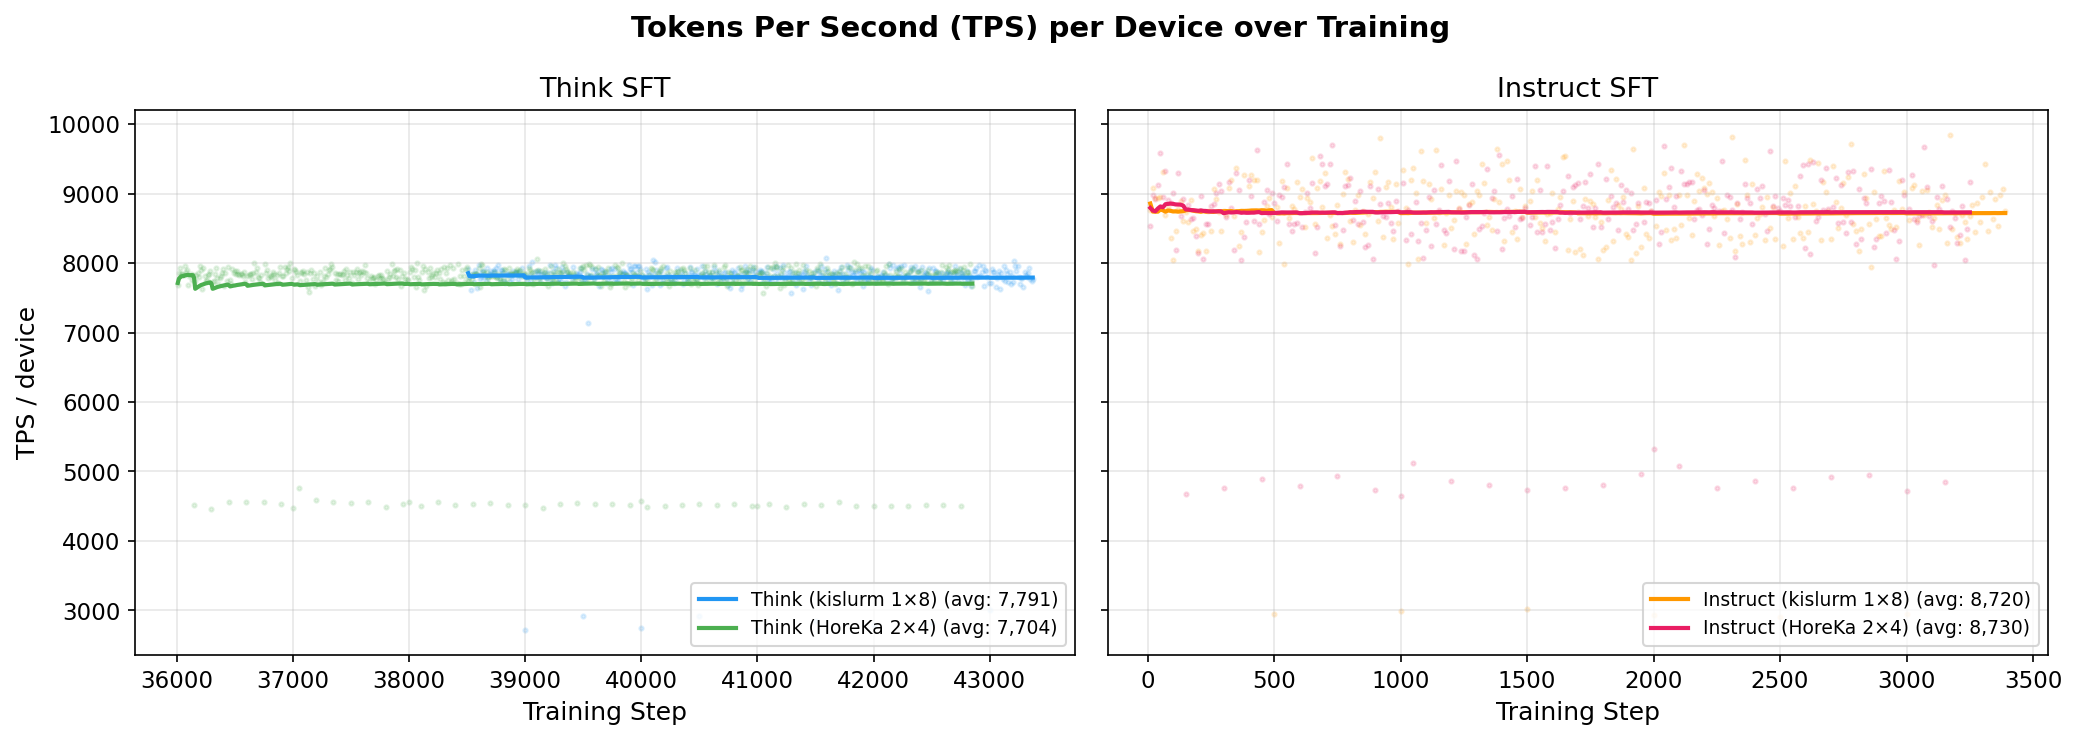
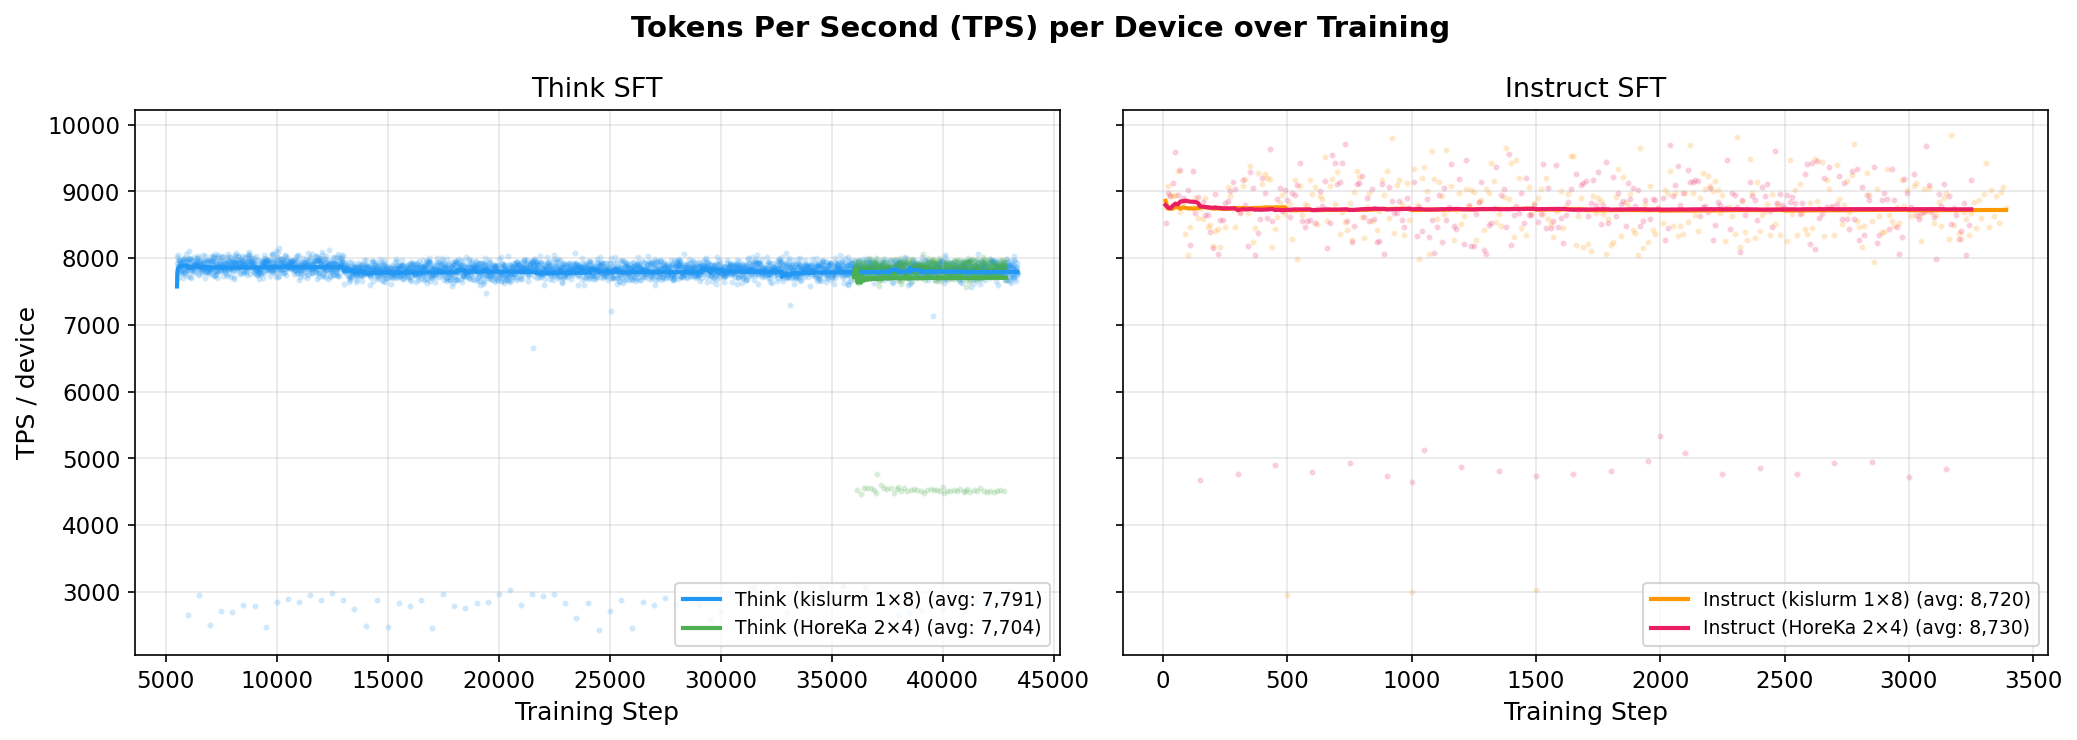
Fix Think TPS/MFU plots to show full training (step 5.5k-43k)
Merge all 14 wandb sessions for kislurm Think (was only showing last
session from step 38.5k). Remove wallclock plot (table entry suffices).
Simplify MFU correction notes.

diff --git a/oellm/experiments/baseline_repro/scripts/plot_throughput.py b/oellm/experiments/baseline_repro/scripts/plot_throughput.py
@@ -20,6 +20,8 @@ ROOT = Path(__file__).resolve().parents[1]  # baseline_repro/
 CKPT = Path("/work/dlclarge2/ferreira-oellm/open-instruct/checkpoints/ferreira/olmo3-7b-sft")
 FIGURES = ROOT / "figures"
 FIGURES.mkdir(exist_ok=True)
+EVAL_FIGURES = ROOT.parent.parent / "evaluations" / "figures"
+EVAL_FIGURES.mkdir(exist_ok=True)
 
 # MFU correction: OLMo-core used A100 peak (156 TFLOPS) instead of H200 (989.5 TFLOPS)
 A100_PEAK = 156e12
@@ -27,13 +29,10 @@ H200_PEAK = 989.5e12
 MFU_CORRECTION = A100_PEAK / H200_PEAK
 
 
-def parse_wandb_log(log_path: Path) -> dict:
-    """Parse output.log for per-step metrics (logged every 10 steps)."""
-    text = log_path.read_text()
+def _parse_single_log(text: str) -> dict:
+    """Parse a single output.log text for per-step metrics (logged every 10 steps)."""
     steps, tps, tps_avg, mfu, mfu_avg = [], [], [], [], []
-    timestamps = []
 
-    # Match blocks: step header followed by metric lines
     block_pat = re.compile(
         r'(\d{4}-\d{2}-\d{2} \d{2}:\d{2}:\d{2})\.\d+\t.*\[step=(\d+)/\d+,epoch=\d+,eta=.*?\]'
     )
@@ -42,24 +41,19 @@ def parse_wandb_log(log_path: Path) -> dict:
     mfu_pat = re.compile(r'throughput/device/MFU=([\d.]+)')
     mfu_avg_pat = re.compile(r'throughput/device/MFU \(actual avg\)=([\d.]+)')
 
-    lines = text.split('\n')
     current_step = None
-    current_ts = None
     current = {}
 
-    for line in lines:
+    for line in text.split('\n'):
         bm = block_pat.search(line)
         if bm:
-            # Save previous block
             if current_step is not None and 'tps' in current:
                 steps.append(current_step)
-                timestamps.append(current_ts)
                 tps.append(current['tps'])
                 tps_avg.append(current.get('tps_avg', current['tps']))
                 mfu.append(current['mfu'])
                 mfu_avg.append(current.get('mfu_avg', current['mfu']))
             current_step = int(bm.group(2))
-            current_ts = bm.group(1)
             current = {}
             continue
 
@@ -77,10 +71,8 @@ def parse_wandb_log(log_path: Path) -> dict:
             if m:
                 current['mfu_avg'] = float(m.group(1))
 
-    # Save last block
     if current_step is not None and 'tps' in current:
         steps.append(current_step)
-        timestamps.append(current_ts)
         tps.append(current['tps'])
         tps_avg.append(current.get('tps_avg', current['tps']))
         mfu.append(current['mfu'])
@@ -90,8 +82,72 @@ def parse_wandb_log(log_path: Path) -> dict:
         'steps': np.array(steps),
         'tps': np.array(tps),
         'tps_avg': np.array(tps_avg),
-        'mfu': np.array(mfu) * MFU_CORRECTION,  # Correct to H200 basis
-        'mfu_avg': np.array(mfu_avg) * MFU_CORRECTION,
+        'mfu': np.array(mfu),
+        'mfu_avg': np.array(mfu_avg),
+    }
+
+
+def parse_wandb_log(log_path: Path) -> dict:
+    """Parse a single output.log file."""
+    data = _parse_single_log(log_path.read_text())
+    data['mfu'] *= MFU_CORRECTION
+    data['mfu_avg'] *= MFU_CORRECTION
+    return data
+
+
+def parse_wandb_multi(wandb_dir: Path) -> dict:
+    """Parse ALL wandb run directories under a wandb/wandb/ dir, merging them.
+
+    This handles training runs that were preempted and restarted multiple times
+    (SLURM array=0-9%1), each creating a new wandb run directory.
+    """
+    all_steps, all_tps, all_tps_avg, all_mfu, all_mfu_avg = [], [], [], [], []
+
+    run_dirs = sorted(wandb_dir.glob("*/files/output.log"))
+    # Also check offline-run-* dirs
+    run_dirs += sorted(wandb_dir.glob("offline-*/files/output.log"))
+    run_dirs = sorted(set(run_dirs))  # dedup
+
+    for log_path in run_dirs:
+        if log_path.stat().st_size == 0:
+            continue
+        data = _parse_single_log(log_path.read_text())
+        if len(data['steps']) > 0:
+            all_steps.append(data['steps'])
+            all_tps.append(data['tps'])
+            all_tps_avg.append(data['tps_avg'])
+            all_mfu.append(data['mfu'])
+            all_mfu_avg.append(data['mfu_avg'])
+
+    if not all_steps:
+        return {'steps': np.array([]), 'tps': np.array([]),
+                'tps_avg': np.array([]), 'mfu': np.array([]),
+                'mfu_avg': np.array([])}
+
+    steps = np.concatenate(all_steps)
+    tps = np.concatenate(all_tps)
+    tps_avg = np.concatenate(all_tps_avg)
+    mfu = np.concatenate(all_mfu)
+    mfu_avg = np.concatenate(all_mfu_avg)
+
+    # Sort by step and deduplicate (keep last occurrence for overlapping steps)
+    order = np.argsort(steps, kind='stable')
+    steps, tps, tps_avg, mfu, mfu_avg = (
+        steps[order], tps[order], tps_avg[order], mfu[order], mfu_avg[order]
+    )
+    _, unique_idx = np.unique(steps, return_index=True)
+    steps = steps[unique_idx]
+    tps = tps[unique_idx]
+    tps_avg = tps_avg[unique_idx]
+    mfu = mfu[unique_idx]
+    mfu_avg = mfu_avg[unique_idx]
+
+    return {
+        'steps': steps,
+        'tps': tps,
+        'tps_avg': tps_avg,
+        'mfu': mfu * MFU_CORRECTION,
+        'mfu_avg': mfu_avg * MFU_CORRECTION,
     }
 
 
@@ -152,17 +208,11 @@ def parse_grep_metrics(log_path: Path) -> dict:
     }
 
 
-def compute_wall_clock(steps: np.ndarray, bps_avg: float) -> np.ndarray:
-    """Compute cumulative wall-clock hours from step numbers and avg BPS."""
-    step_time = 1.0 / bps_avg  # seconds per step
-    return steps * step_time / 3600
-
-
 def main():
     # Load data
-    # kislurm v1
-    ki_think = parse_wandb_log(
-        CKPT / "dolci-think-sft/wandb/wandb/run-20251228_004416-opfnhcpn/files/output.log"
+    # kislurm v1 — Think was preempted many times, merge all wandb sessions
+    ki_think = parse_wandb_multi(
+        CKPT / "dolci-think-sft/wandb/wandb"
     )
     ki_instruct = parse_wandb_log(
         CKPT / "dolci-instruct-sft/wandb/wandb/run-20251229_191221-0c77cvcj/files/output.log"
@@ -172,16 +222,9 @@ def main():
     hk_think = parse_grep_metrics(ROOT / "logs/horeka_think_v2_metrics.txt")
     hk_instruct = parse_grep_metrics(ROOT / "logs/horeka_instruct_v2_metrics.txt")
 
-    print(f"kislurm Think:    {len(ki_think['steps'])} datapoints, steps {ki_think['steps'][0]}-{ki_think['steps'][-1]}")
-    print(f"kislurm Instruct: {len(ki_instruct['steps'])} datapoints, steps {ki_instruct['steps'][0]}-{ki_instruct['steps'][-1]}")
-    print(f"HoreKa Think:     {len(hk_think['steps'])} datapoints, steps {hk_think['steps'][0]}-{hk_think['steps'][-1]}")
-    print(f"HoreKa Instruct:  {len(hk_instruct['steps'])} datapoints, steps {hk_instruct['steps'][0]}-{hk_instruct['steps'][-1]}")
-
-    # BPS averages (from wandb-summary.json)
-    bps = {
-        'ki_think': 0.0594, 'ki_instruct': 0.0665,
-        'hk_think': 0.05878, 'hk_instruct': 0.06661,
-    }
+    for name, data in [("kislurm Think", ki_think), ("kislurm Instruct", ki_instruct),
+                        ("HoreKa Think", hk_think), ("HoreKa Instruct", hk_instruct)]:
+        print(f"{name:20s}: {len(data['steps']):5d} datapoints, steps {data['steps'][0]}-{data['steps'][-1]}")
 
     # --- Plot style ---
     plt.rcParams.update({
@@ -198,11 +241,6 @@ def main():
         'hk_think': 'Think (HoreKa 2×4)',
         'hk_instruct': 'Instruct (HoreKa 2×4)',
     }
-
-    datasets = [
-        ('ki_think', ki_think), ('ki_instruct', ki_instruct),
-        ('hk_think', hk_think), ('hk_instruct', hk_instruct),
-    ]
 
     # ====== Figure 1: TPS/device over steps ======
     fig, axes = plt.subplots(1, 2, figsize=(14, 5), sharey=True)
@@ -230,8 +268,9 @@ def main():
     axes[1].grid(True, alpha=0.3)
 
     plt.tight_layout()
-    fig.savefig(FIGURES / 'throughput_tps.png', bbox_inches='tight')
-    print(f"Saved {FIGURES / 'throughput_tps.png'}")
+    for out_dir in [FIGURES, EVAL_FIGURES]:
+        fig.savefig(out_dir / 'throughput_tps.png', bbox_inches='tight')
+    print(f"Saved throughput_tps.png")
     plt.close()
 
     # ====== Figure 2: MFU (H200-corrected) over steps ======
@@ -256,77 +295,9 @@ def main():
         ax.set_ylim(50, 100)
 
     plt.tight_layout()
-    fig.savefig(FIGURES / 'throughput_mfu.png', bbox_inches='tight')
-    print(f"Saved {FIGURES / 'throughput_mfu.png'}")
-    plt.close()
-
-    # ====== Figure 3: Cumulative wall-clock time ======
-    fig, axes = plt.subplots(1, 2, figsize=(14, 5))
-    fig.suptitle('Cumulative Wall-Clock Time over Training', fontsize=14, fontweight='bold')
-
-    # Think
-    for key, data in [('ki_think', ki_think), ('hk_think', hk_think)]:
-        wall = compute_wall_clock(data['steps'], bps[key])
-        axes[0].plot(data['steps'], wall, color=colors[key], linewidth=2, label=labels[key])
-    axes[0].set_title('Think SFT')
-    axes[0].set_xlabel('Training Step')
-    axes[0].set_ylabel('Wall-Clock Time (hours)')
-    axes[0].legend()
-    axes[0].grid(True, alpha=0.3)
-
-    # Instruct
-    for key, data in [('ki_instruct', ki_instruct), ('hk_instruct', hk_instruct)]:
-        wall = compute_wall_clock(data['steps'], bps[key])
-        axes[1].plot(data['steps'], wall, color=colors[key], linewidth=2, label=labels[key])
-    axes[1].set_title('Instruct SFT')
-    axes[1].set_xlabel('Training Step')
-    axes[1].set_ylabel('Wall-Clock Time (hours)')
-    axes[1].legend()
-    axes[1].grid(True, alpha=0.3)
-
-    plt.tight_layout()
-    fig.savefig(FIGURES / 'throughput_wallclock.png', bbox_inches='tight')
-    print(f"Saved {FIGURES / 'throughput_wallclock.png'}")
-    plt.close()
-
-    # ====== Figure 4: Combined overview (2x2) ======
-    fig, axes = plt.subplots(2, 2, figsize=(14, 10))
-    fig.suptitle('OLMo-3-7B SFT Training Throughput', fontsize=15, fontweight='bold', y=0.98)
-
-    # Row 0: TPS
-    for idx, (model, pairs) in enumerate([
-        ('Think SFT', [('ki_think', ki_think), ('hk_think', hk_think)]),
-        ('Instruct SFT', [('ki_instruct', ki_instruct), ('hk_instruct', hk_instruct)]),
-    ]):
-        ax = axes[0, idx]
-        for key, data in pairs:
-            ax.scatter(data['steps'], data['tps'], alpha=0.1, s=3, color=colors[key])
-            ax.plot(data['steps'], data['tps_avg'], color=colors[key], linewidth=1.5,
-                    label=f"{labels[key]} ({data['tps_avg'][-1]:,.0f})")
-        ax.set_title(model)
-        ax.set_ylabel('TPS / device')
-        ax.legend(fontsize=8, loc='lower right')
-        ax.grid(True, alpha=0.3)
-
-    # Row 1: MFU
-    for idx, (model, pairs) in enumerate([
-        ('Think SFT', [('ki_think', ki_think), ('hk_think', hk_think)]),
-        ('Instruct SFT', [('ki_instruct', ki_instruct), ('hk_instruct', hk_instruct)]),
-    ]):
-        ax = axes[1, idx]
-        for key, data in pairs:
-            ax.scatter(data['steps'], data['mfu'], alpha=0.1, s=3, color=colors[key])
-            ax.plot(data['steps'], data['mfu_avg'], color=colors[key], linewidth=1.5,
-                    label=f"{labels[key]} ({data['mfu_avg'][-1]:.1f}%)")
-        ax.set_xlabel('Training Step')
-        ax.set_ylabel('MFU (%) — H200 basis')
-        ax.legend(fontsize=8, loc='lower right')
-        ax.grid(True, alpha=0.3)
-        ax.set_ylim(50, 100)
-
-    plt.tight_layout()
-    fig.savefig(FIGURES / 'throughput_overview.png', bbox_inches='tight')
-    print(f"Saved {FIGURES / 'throughput_overview.png'}")
+    for out_dir in [FIGURES, EVAL_FIGURES]:
+        fig.savefig(out_dir / 'throughput_mfu.png', bbox_inches='tight')
+    print(f"Saved throughput_mfu.png")
     plt.close()
 
 

diff --git a/oellm/experiments/baseline_repro/eval_results.md b/oellm/experiments/baseline_repro/eval_results.md
@@ -532,10 +532,8 @@ Multi-node overhead is minimal (~1% TPS reduction for Think). The +13.6 GiB high
 
 ![MFU over training steps](https://raw.githubusercontent.com/ferreirafabio/open-instruct/main/oellm/experiments/baseline_repro/figures/throughput_mfu.png)
 
-![Wall-clock time over training steps](https://raw.githubusercontent.com/ferreirafabio/open-instruct/main/oellm/experiments/baseline_repro/figures/throughput_wallclock.png)
-
 ### Notes
 
-<sup>2</sup> OLMo-core's `SpeedMonitorCallback` does not have an H200 branch in its GPU detection code. It falls through to the A100 default: `312e12 × 0.5 = 156 TFLOPS` (BF16 dense). This inflates reported MFU by 6.3×. See `olmo_core/train/callbacks/speed_monitor.py:82-95`.
+<sup>2</sup> OLMo-core's `SpeedMonitorCallback` does not recognize H200 GPUs — it falls through to the A100 default (156 TFLOPS BF16 dense), inflating reported MFU by 6.3×. See `olmo_core/train/callbacks/speed_monitor.py:82-95`.
 
-<sup>3</sup> Corrected using H200 SXM BF16 dense peak = 989.5 TFLOPS (same Hopper GH100 die as H100 SXM: `1979e12 × 0.5`). MFU formula includes forward+backward FLOPs per the PaLM convention: `flops_per_token = 6 × N_params + 12 × n_layers × n_heads × d_head × seq_len`.
+<sup>3</sup> Corrected using H200 SXM BF16 dense peak = 989.5 TFLOPS (same Hopper GH100 die as H100 SXM). MFU includes forward + backward FLOPs per the PaLM convention.

diff --git a/oellm/evaluations/eval_results.md b/oellm/evaluations/eval_results.md
@@ -573,10 +573,8 @@ Multi-node overhead is minimal (~1% TPS reduction for Think). The +13.6 GiB high
 
 ![MFU over training steps](https://raw.githubusercontent.com/ferreirafabio/open-instruct/main/oellm/evaluations/figures/throughput_mfu.png)
 
-![Wall-clock time over training steps](https://raw.githubusercontent.com/ferreirafabio/open-instruct/main/oellm/evaluations/figures/throughput_wallclock.png)
-
 ### Notes
 
-<sup>2</sup> OLMo-core's `SpeedMonitorCallback` does not have an H200 branch in its GPU detection code. It falls through to the A100 default: `312e12 × 0.5 = 156 TFLOPS` (BF16 dense). This inflates reported MFU by 6.3×. See `olmo_core/train/callbacks/speed_monitor.py:82-95`.
+<sup>2</sup> OLMo-core's `SpeedMonitorCallback` does not recognize H200 GPUs — it falls through to the A100 default (156 TFLOPS BF16 dense), inflating reported MFU by 6.3×. See `olmo_core/train/callbacks/speed_monitor.py:82-95`.
 
-<sup>3</sup> Corrected using H200 SXM BF16 dense peak = 989.5 TFLOPS (same Hopper GH100 die as H100 SXM: `1979e12 × 0.5`). MFU formula includes forward+backward FLOPs per the PaLM convention: `flops_per_token = 6 × N_params + 12 × n_layers × n_heads × d_head × seq_len`.
+<sup>3</sup> Corrected using H200 SXM BF16 dense peak = 989.5 TFLOPS (same Hopper GH100 die as H100 SXM). MFU includes forward + backward FLOPs per the PaLM convention.
